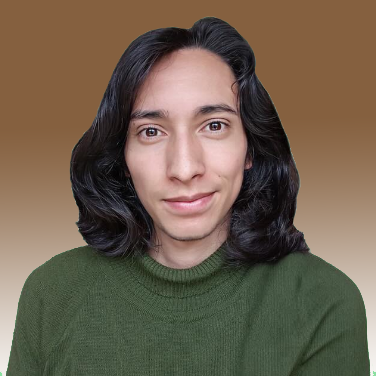
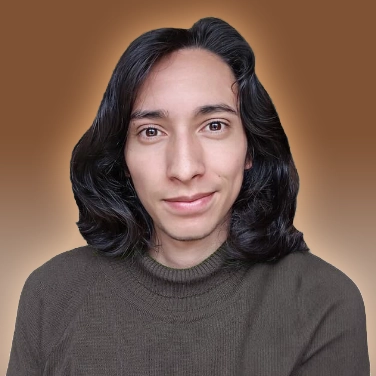
♻ UPDATE - Change confetti effect on both sides function and enhance leaf fall animation, add new profile photo in accordance with website colors

diff --git a/src/containers/Skills.jsx b/src/containers/Skills.jsx
@@ -7,7 +7,7 @@ import SpainIcon from "../assets/images/spain.webp";
 import { CheckLanguage, GetByLanguage } from "../utils/languageTools";
 import { tools } from "../utils/toolsList";
 import { separateItems } from "../utils/separateItems";
-import { leafsConfetti } from "../utils/leafsConfetti";
+import confettiAtSides from "../utils/confettiAtSides";
 import aestheticFlowers2Img from "../assets/images/aesthetic_flowers2.webp";
 import aestheticBottomImg from "../assets/images/aesthetic_bottom.webp";
 import clsx from "clsx";
@@ -35,7 +35,7 @@ const Skills = () => {
                 src={aestheticBottomImg}
                 alt="Aesthetic plant"
             />
-            <button onClick={leafsConfetti} type="button">
+            <button onClick={() => confettiAtSides(["🍄", "🍄🟫"])} type="button">
                 <img
                     className="absolute top-5 -right-[0.45rem] w-[14vw] max-w-[140px] min-w-[110px] h-min select-none hover:scale-105 transition-transform"
                     draggable="false"

diff --git a/src/components/LeafFall.jsx b/src/components/LeafFall.jsx
@@ -1,4 +1,5 @@
 import React, { useEffect, useRef, useState } from "react";
+import confettiAtSides from "../utils/confettiAtSides";
 import fallImg from "../assets/images/fall.webp";
 import clsx from "clsx";
 
@@ -9,8 +10,12 @@ const LeafFall = ({ className = "" }) => {
 
     const handleClick = () => {
         if (!isFalling) {
+            confettiAtSides();
             canvasRef.current.style.cursor = "";
             setIsFalling(true);
+            setTimeout(() => {
+                setIsFalling(false);
+            }, 8000);
         }
     };
 
@@ -48,7 +53,10 @@ const LeafFall = ({ className = "" }) => {
     return (
         <canvas
             ref={canvasRef}
-            className={clsx(`${className} transition-all`, { "animate-fall": isFalling })}
+            className={clsx(`${className} transition-all`, {
+                "animate-fall": isFalling,
+                "animate-restart-fall": !isFalling,
+            })}
             width="425"
             height="535"
             onClick={handleClick}

diff --git a/tailwind.config.js b/tailwind.config.js
@@ -34,6 +34,7 @@ module.exports = {
             },
             animation: {
                 fall: "fall 5s ease-in forwards",
+                "restart-fall": "restart-fall 1.5s ease-in forwards",
                 "navbar-open": "navbar-open 0.65s ease-out forwards",
                 "navbar-close": "navbar-close 0.25s ease-in forwards",
             },
@@ -51,6 +52,16 @@ module.exports = {
                         transform: "translate(250%, 300%) rotate(-10deg)",
                         opacity: 0,
                         display: "none",
+                    },
+                },
+                "restart-fall": {
+                    "0%": {
+                        scale: 0.7,
+                        opacity: 0,
+                    },
+                    "100%": {
+                        scale: 1,
+                        opacity: 1,
                     },
                 },
                 "navbar-open": {

diff --git a/src/pages/MainPage.jsx b/src/pages/MainPage.jsx
@@ -1,4 +1,4 @@
-import React from "react";
+import React, { useEffect } from "react";
 import Navbar from "../containers/Navbar";
 import Home from "../containers/Home";
 import AboutMe from "../containers/AboutMe";
@@ -6,8 +6,13 @@ import Skills from "../containers/Skills";
 import Projects from "../containers/Projects";
 import Contact from "../containers/Contact";
 import Experience from "../containers/Experience";
+import confettiAtSides from "../utils/confettiAtSides";
 
 const MainPage = () => {
+    useEffect(() => {
+        setTimeout(confettiAtSides, 1500);
+    }, []);
+
     return (
         <>
             <header>

diff --git a/src/utils/confettiAtSides.js b/src/utils/confettiAtSides.js
@@ -1,0 +1,15 @@
+import JSConfetti from "js-confetti";
+
+/**
+ * Trigger confetti on both sides of the screen.
+ * @param {string[]} [emojis=["🍂", "🍁"]] - The emojis to use for the confetti.
+ * @returns {void}
+ */
+export default function confettiAtSides(emojis = ["🍂", "🍁"]) {
+    const jsConfettiRef = new JSConfetti();
+    // Trigger confetti on both sides
+    jsConfettiRef.addConfetti({
+        emojis: emojis,
+        emojiSize: window.innerWidth >= 768 ? 80 : 140,
+    });
+}
